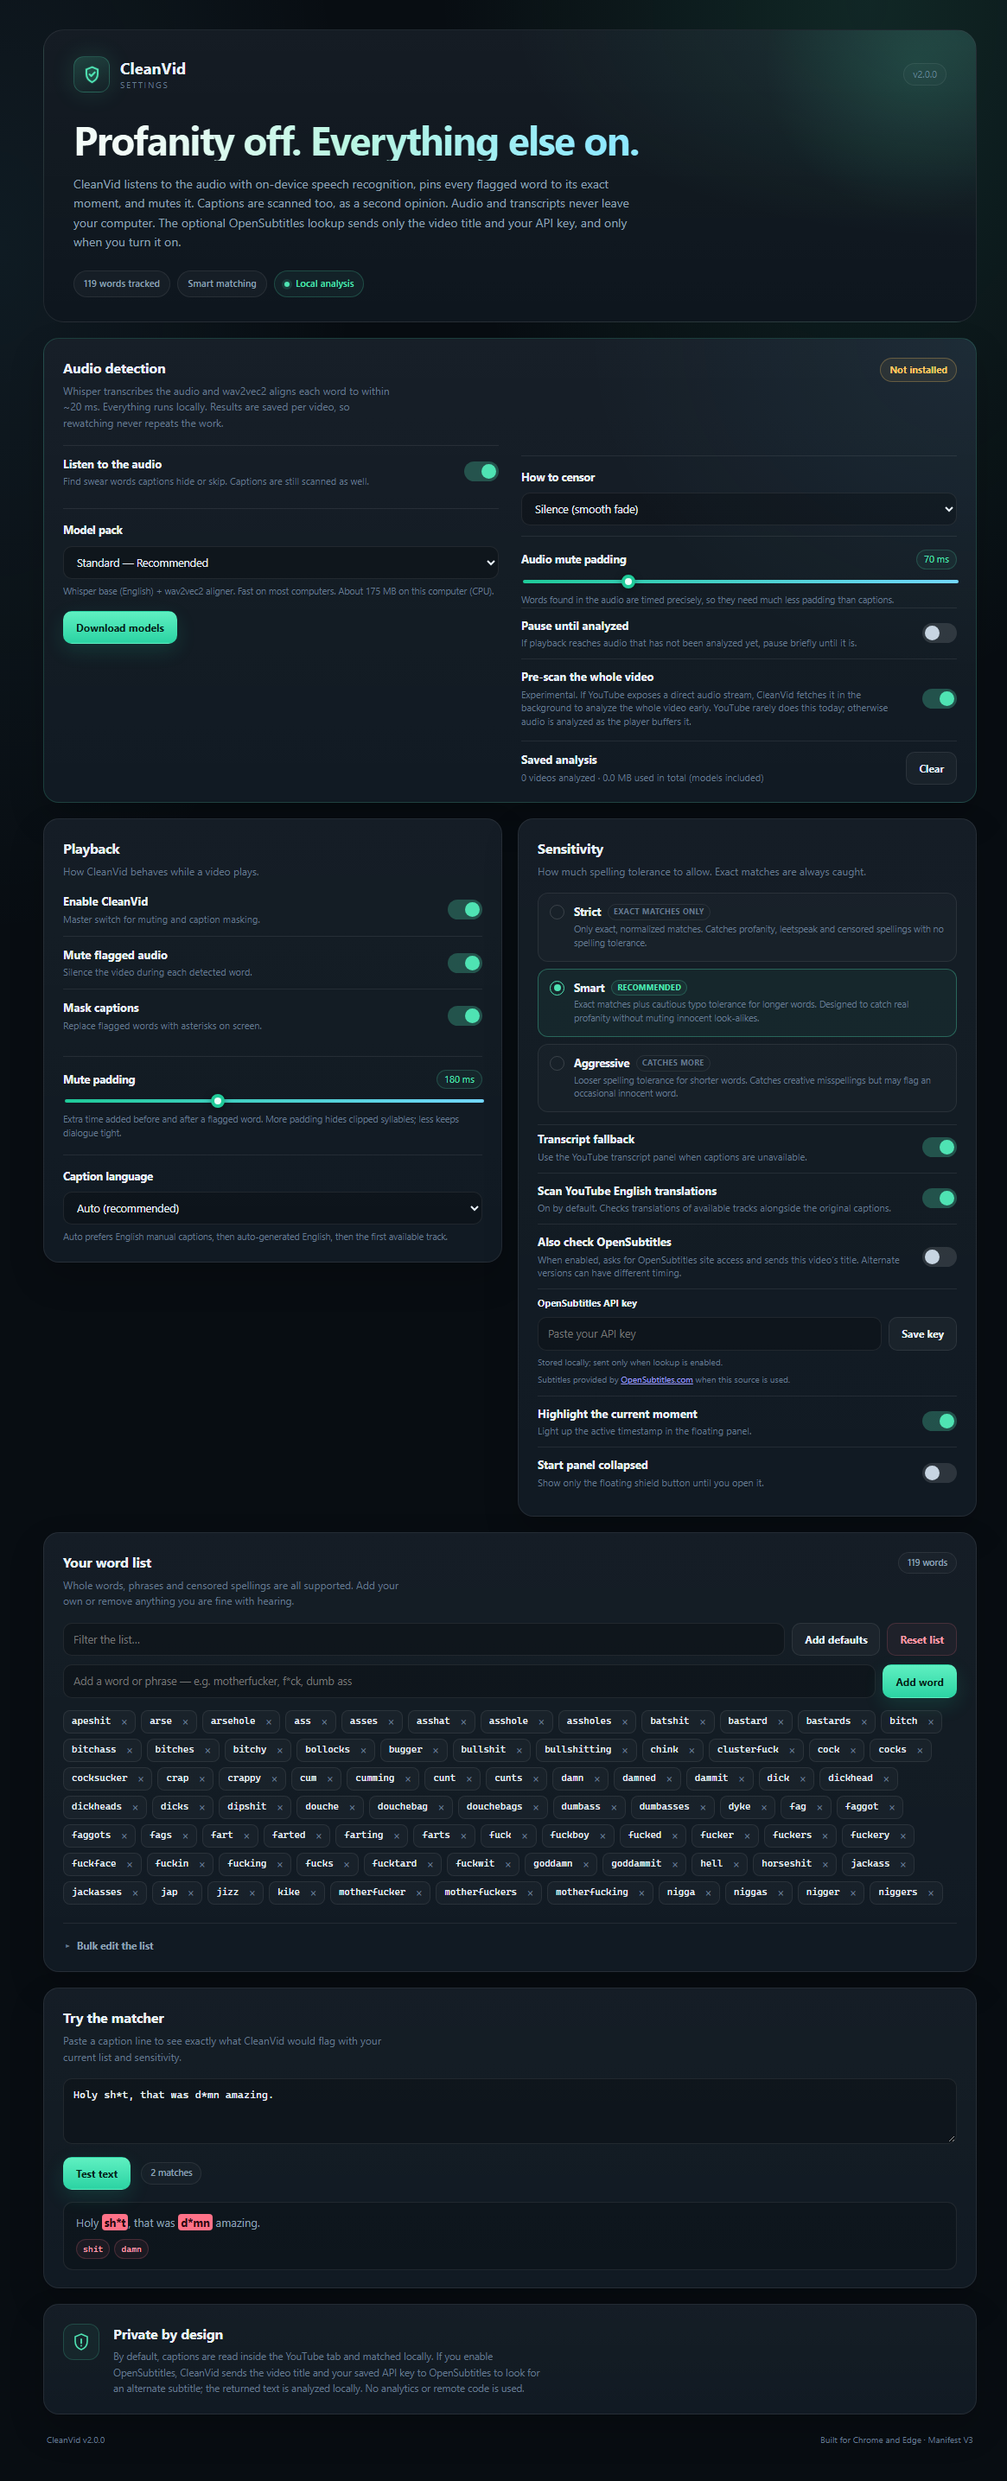
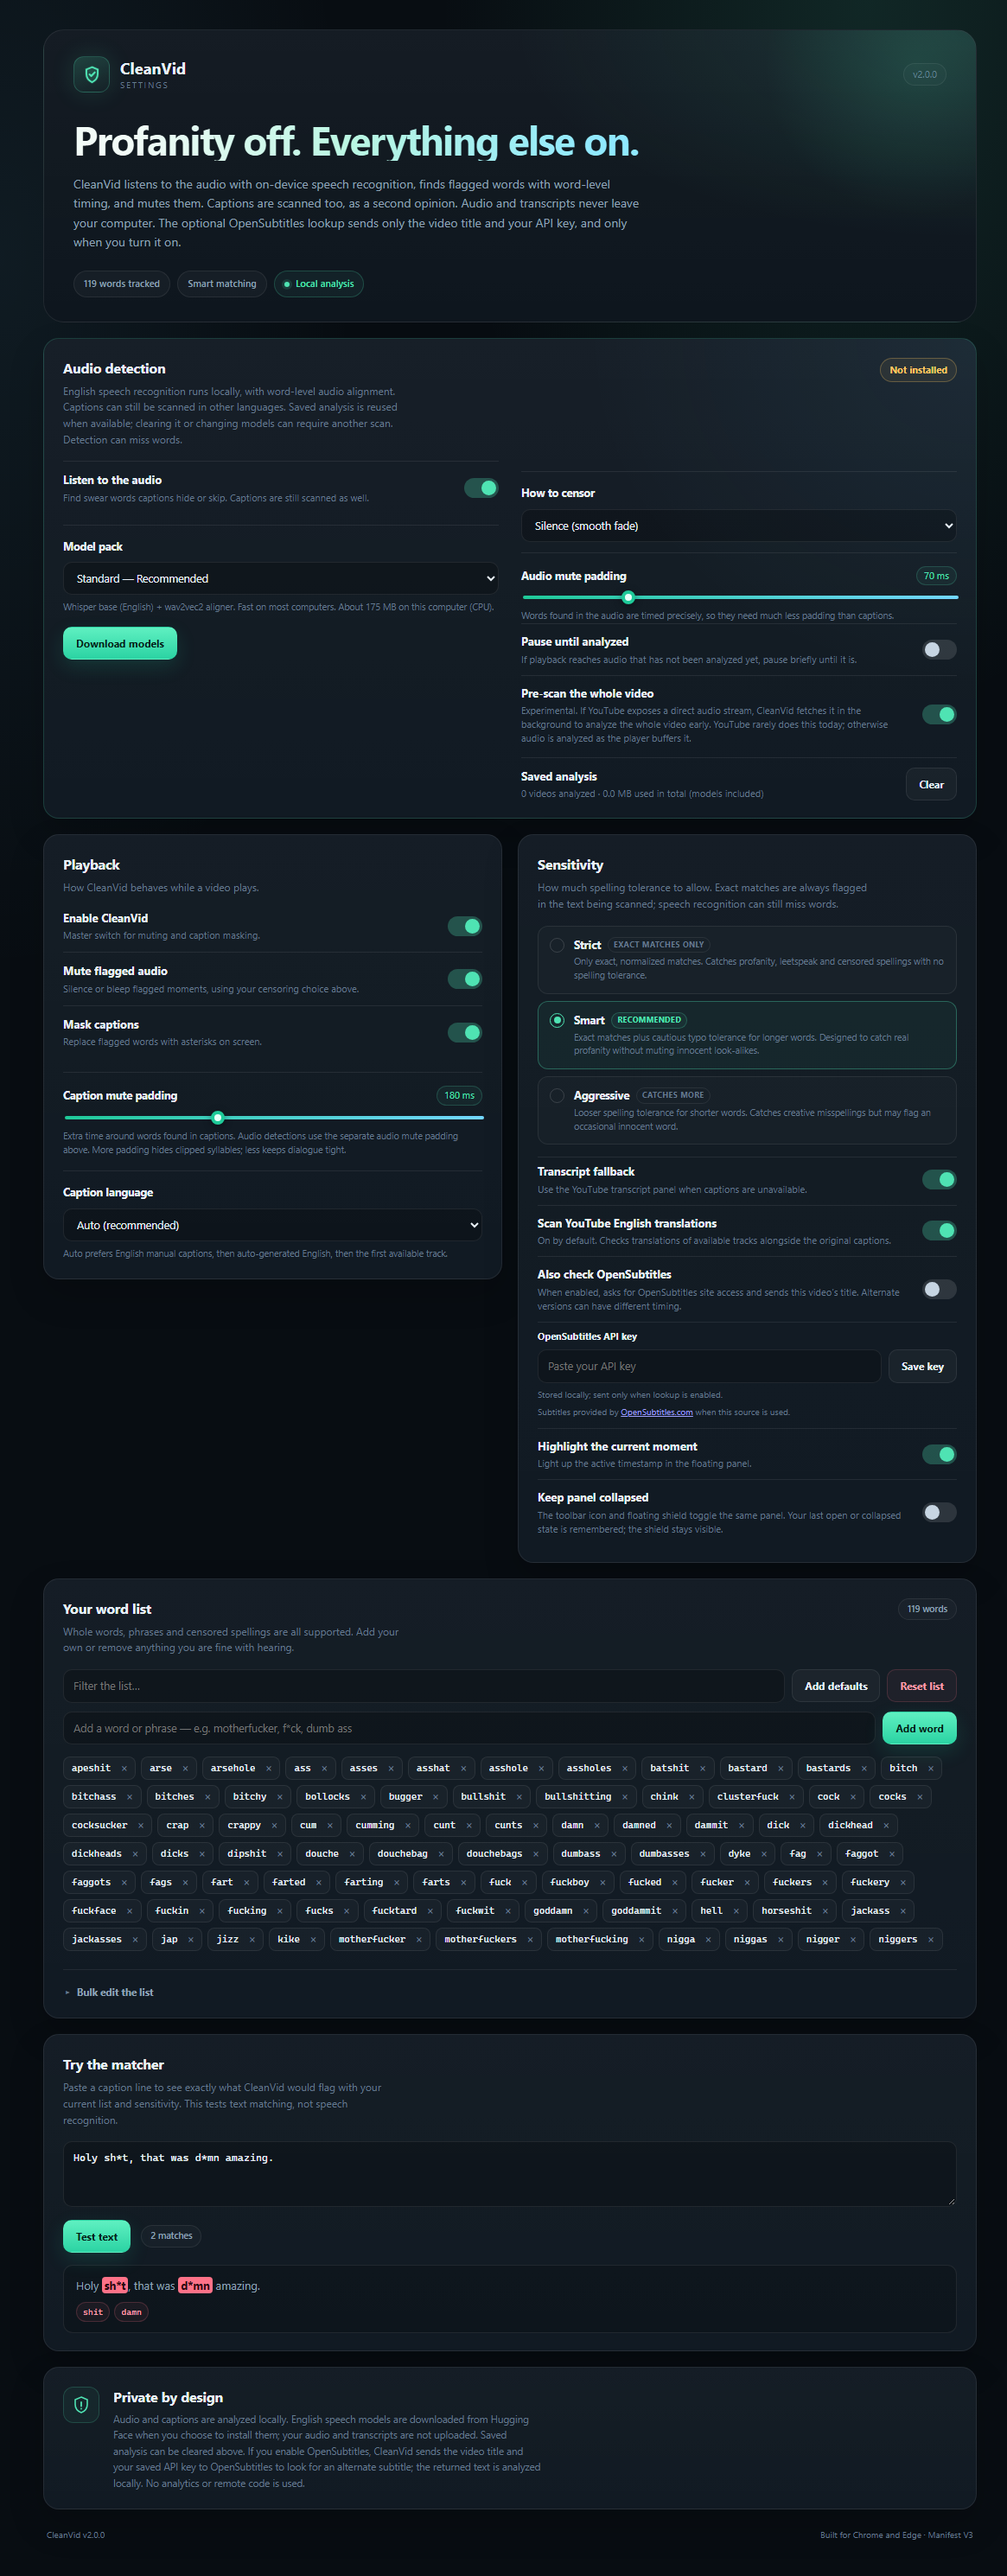
Update settings descriptions for audio detection and unified panel

diff --git a/src/options/options.html b/src/options/options.html
@@ -41,7 +41,7 @@
         <h1>Profanity off. Everything else on.</h1>
         <p class="hero-sub">
           CleanVid listens to the audio with on-device speech recognition,
-          pins every flagged word to its exact moment, and mutes it. Captions
+          finds flagged words with word-level timing, and mutes them. Captions
           are scanned too, as a second opinion. Audio and transcripts never
           leave your computer. The optional OpenSubtitles lookup sends only the
           video title and your API key, and only when you turn it on.
@@ -59,8 +59,9 @@
             <div>
               <h2>Audio detection</h2>
               <p class="card-sub">
-                Whisper transcribes the audio and wav2vec2 aligns each word to within ~20 ms.
-                Everything runs locally. Results are saved per video, so rewatching never repeats the work.
+                English speech recognition runs locally, with word-level audio alignment.
+                Captions can still be scanned in other languages. Saved analysis is reused when available;
+                clearing it or changing models can require another scan. Detection can miss words.
               </p>
             </div>
             <span id="modelBadge" class="model-badge">Checking…</span>
@@ -170,7 +171,7 @@
             <label class="setting-row">
               <span class="setting-copy">
                 <strong>Mute flagged audio</strong>
-                <small>Silence the video during each detected word.</small>
+                <small>Silence or bleep flagged moments, using your censoring choice above.</small>
               </span>
               <span class="toggle">
                 <input id="muteAudio" type="checkbox" />
@@ -191,12 +192,12 @@
 
             <div class="field">
               <div class="field-label">
-                <label for="mutePadding">Mute padding</label>
+                <label for="mutePadding">Caption mute padding</label>
                 <output id="mutePaddingValue" for="mutePadding">180 ms</output>
               </div>
               <input id="mutePadding" type="range" min="0" max="500" step="20" />
               <p class="hint">
-                Extra time added before and after a flagged word. More padding
+                Extra time around words found in captions. Audio detections use the separate audio mute padding above. More padding
                 hides clipped syllables; less keeps dialogue tight.
               </p>
             </div>
@@ -217,7 +218,7 @@
                 <h2>Sensitivity</h2>
                 <p class="card-sub">
                   How much spelling tolerance to allow. Exact matches are always
-                  caught.
+                  flagged in the text being scanned; speech recognition can still miss words.
                 </p>
               </div>
             </div>
@@ -281,8 +282,8 @@
 
             <label class="setting-row compact">
               <span class="setting-copy">
-                <strong>Start panel collapsed</strong>
-                <small>Show only the floating shield button until you open it.</small>
+                <strong>Keep panel collapsed</strong>
+                <small>The toolbar icon and floating shield toggle the same panel. Your last open or collapsed state is remembered; the shield stays visible.</small>
               </span>
               <span class="toggle">
                 <input id="panelCollapsed" type="checkbox" />
@@ -349,7 +350,7 @@
               <h2>Try the matcher</h2>
               <p class="card-sub">
                 Paste a caption line to see exactly what CleanVid would flag with
-                your current list and sensitivity.
+                your current list and sensitivity. This tests text matching, not speech recognition.
               </p>
             </div>
           </div>
@@ -387,8 +388,10 @@
           <div>
             <h2>Private by design</h2>
             <p>
-              By default, captions are read inside the YouTube tab and matched
-              locally. If you enable OpenSubtitles, CleanVid sends the video
+              Audio and captions are analyzed locally. English speech models are
+              downloaded from Hugging Face when you choose to install them;
+              your audio and transcripts are not uploaded. Saved analysis can be
+              cleared above. If you enable OpenSubtitles, CleanVid sends the video
               title and your saved API key to OpenSubtitles to look for an
               alternate subtitle; the returned text is analyzed locally. No
               analytics or remote code is used.
@@ -398,7 +401,7 @@
       </main>
 
       <footer class="page-footer">
-        <span>CleanVid <span id="footerVersion">v1.3.0</span></span>
+        <span>CleanVid <span id="footerVersion">v2.0.0</span></span>
         <span>Built for Chrome and Edge · Manifest V3</span>
       </footer>
     </div>

diff --git a/src/background/service-worker.js b/src/background/service-worker.js
@@ -52,7 +52,7 @@ async function fetchOpenSubtitles(title, apiKey) {
   const apiHeaders = {
     Accept: 'application/json',
     'Api-Key': apiKey,
-    'X-User-Agent': 'CleanVid v1.3.0',
+    'X-User-Agent': `CleanVid v${chrome.runtime.getManifest().version}`,
   };
   const searchUrl = new URL('https://api.opensubtitles.com/api/v1/subtitles');
   searchUrl.searchParams.set('languages', 'en');

diff --git a/src/shared/constants.js b/src/shared/constants.js
@@ -1,6 +1,6 @@
 /**
  * CleanVid — shared constants and storage helpers.
- * Loaded as a classic script by the content script, popup, options page and
+ * Loaded as a classic script by the content script, options page and
  * service worker, so it exposes a single global namespace instead of modules.
  */
 (() => {
